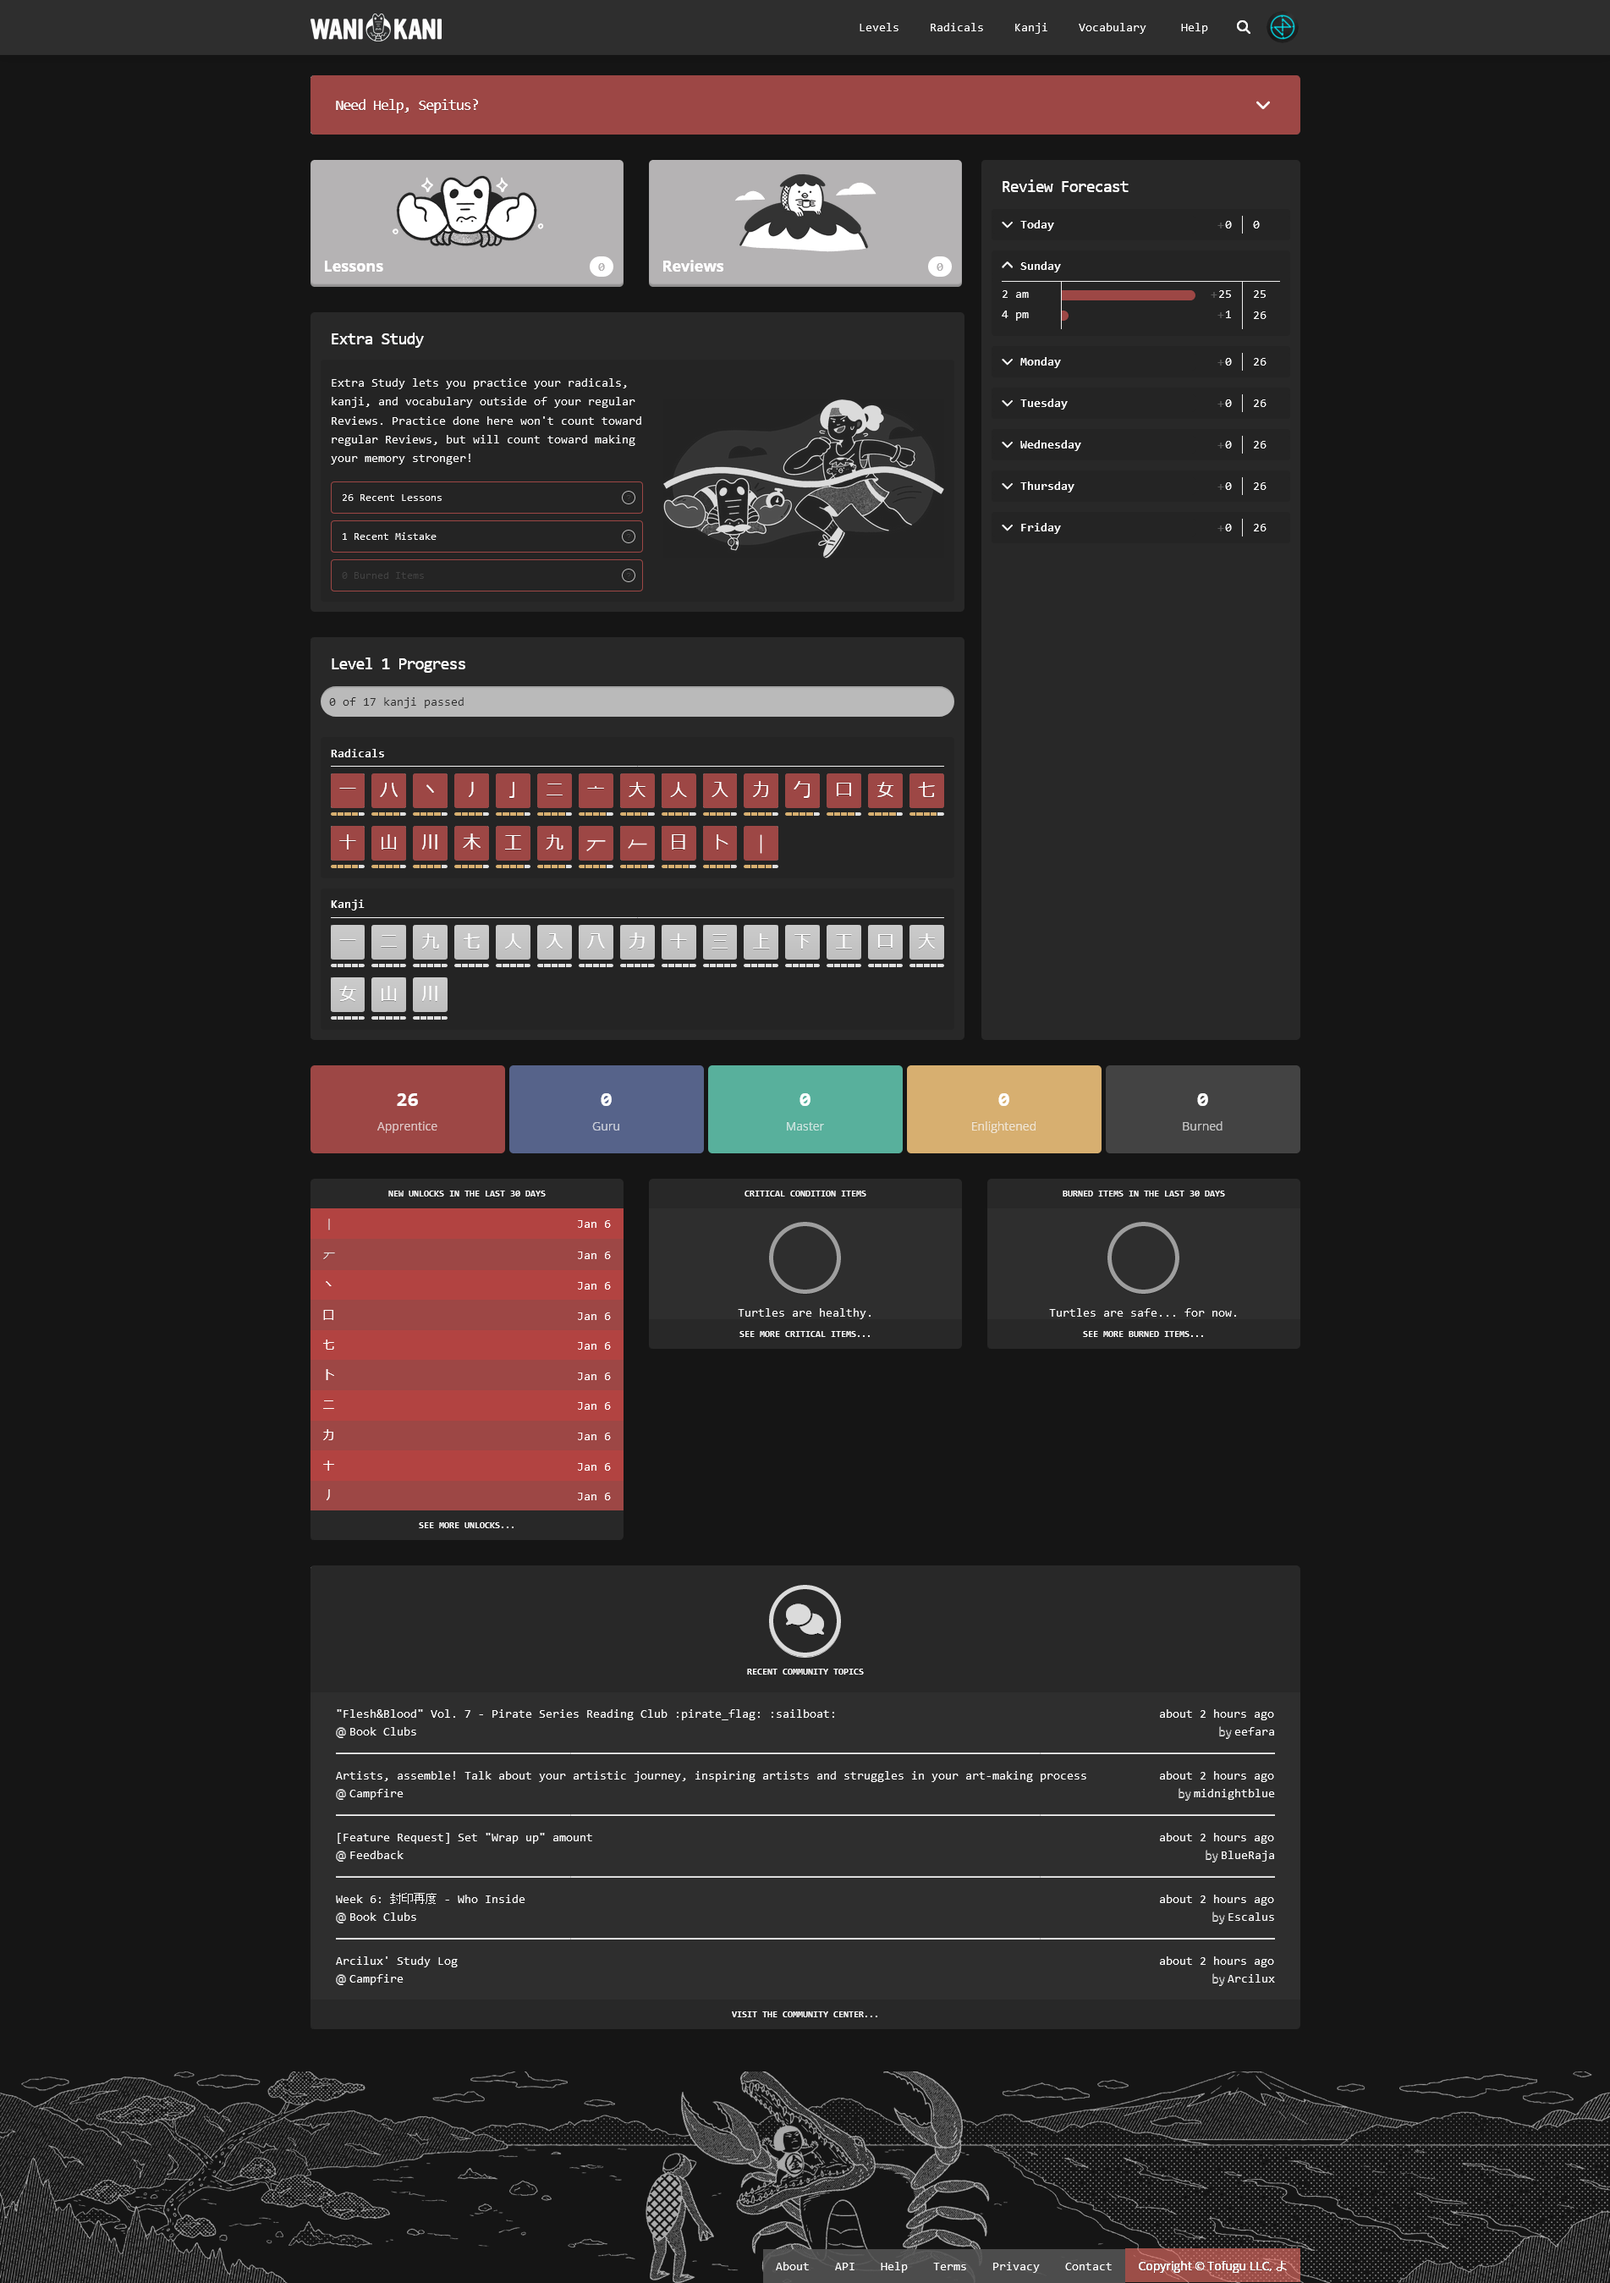
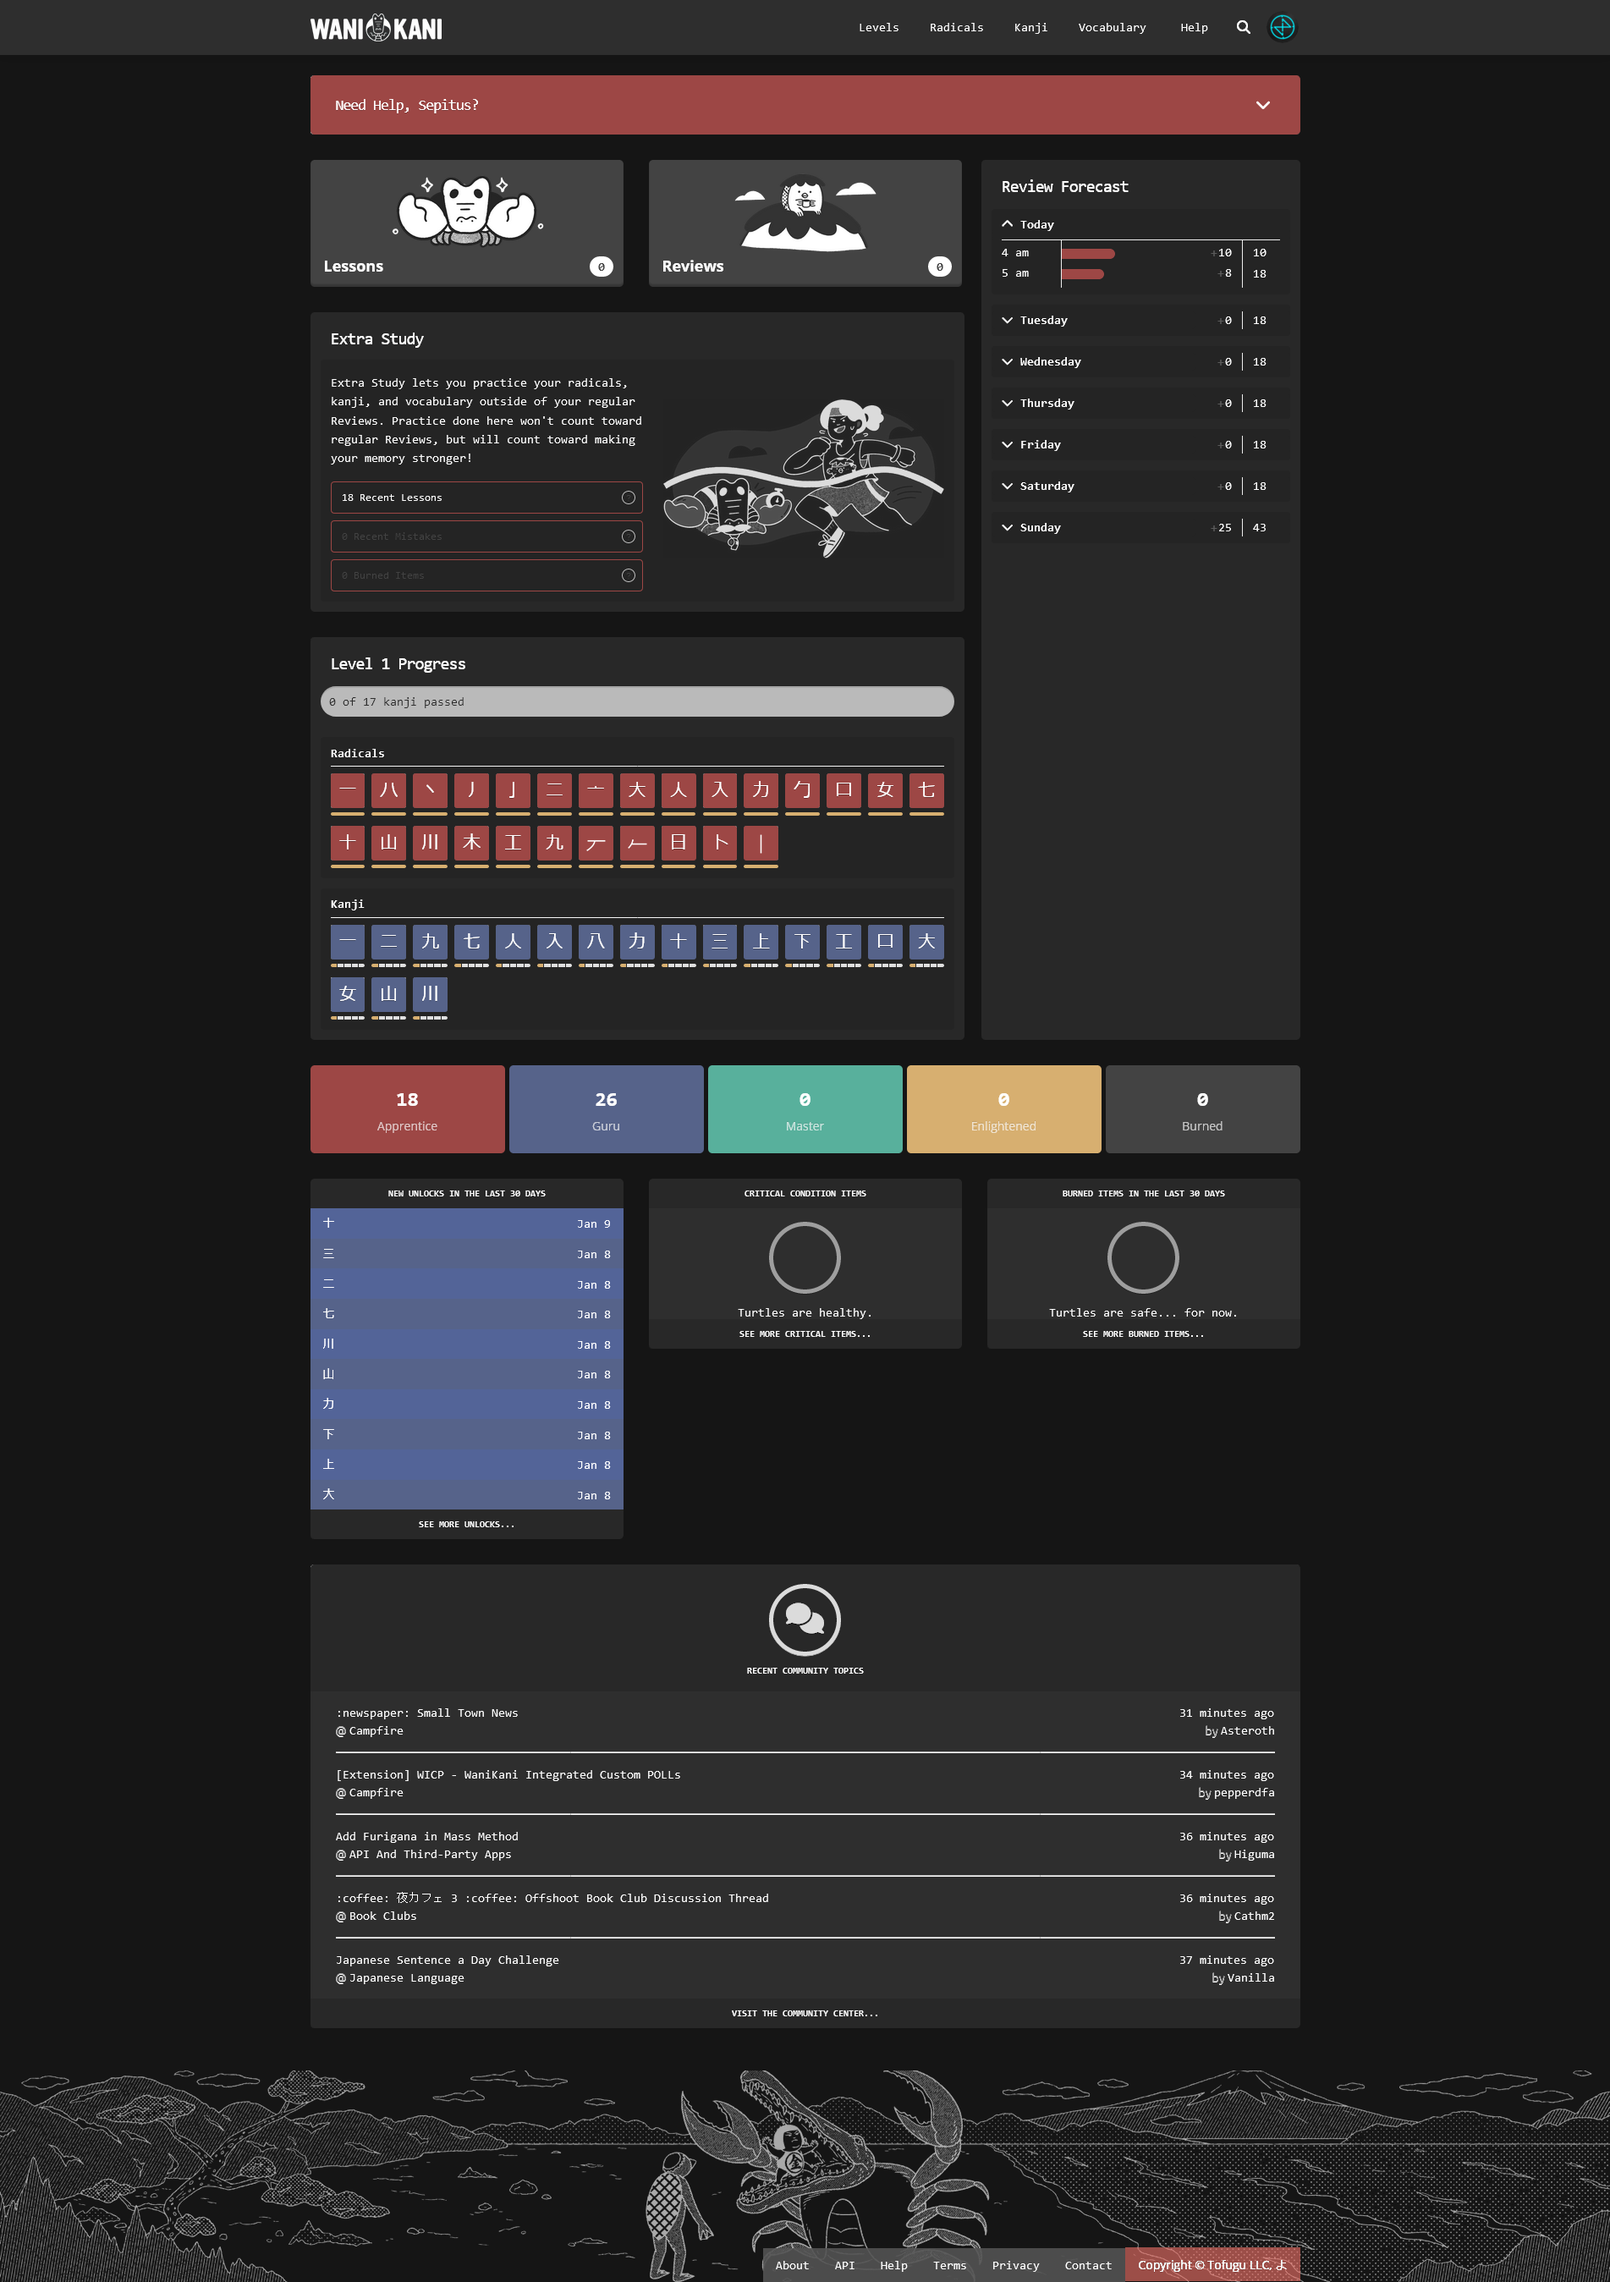
Changed dash buttons.... again Added theming for lessons Fixed highlight colors of "comunity topics" box

diff --git a/WKStygianRed.css b/WKStygianRed.css
@@ -116,12 +116,30 @@ footer ul li:last-child {
     border-color: #9d4745;
 }
 
-.lessons-and-reviews__reviews-button {
-    filter: hue-rotate(155deg) saturate(1.6) grayscale(50%);
+.lessons-and-reviews__reviews-button,
+.lessons-and-reviews__lessons-button {
+    background-color: #9d4745;
 }
 
-.lessons-and-reviews__lessons-button {
-    filter: hue-rotate(46deg) saturate(0.25) brightness(1.5);
+.lessons-and-reviews__reviews-button span,
+.lessons-and-reviews__lessons-button span,
+.lessons-and-reviews__lessons-button:hover,
+.lessons-and-reviews__lessons-button:active,
+.lessons-and-reviews__lessons-button:focus,
+.lessons-and-reviews__reviews-button:hover,
+.lessons-and-reviews__reviews-button:active,
+.lessons-and-reviews__reviews-button:focus  {
+    color: #9d4745;
+}
+
+.lessons-and-reviews__reviews-button--0,
+.lessons-and-reviews__lessons-button--0{
+    background-color: #434343;
+}
+
+.lessons-and-reviews__reviews-button--0 span,
+.lessons-and-reviews__lessons-button--0 span {
+    color: #434343;
 }
 
 .dashboard section.newbie, .dashboard section.dashboard-progress, .dashboard section.forecast,
@@ -179,7 +197,7 @@ section.srs-progress ul li:nth-child(4),section.srs-progress ul li:nth-child(5),
     border-radius: 0px 0px 5px 5px;
 }
 
-.text-blue-500:hover, .text-blue-500:active, .text-blue-500:focus {
+.text-blue-500:hover, .text-blue-500:active, .text-blue-500:focus, .forum-topics-list a:hover {
     color: #9d4745;
     --tw-ring-color: #9d4745;
 }
@@ -265,7 +283,7 @@ section.srs-progress ul li:nth-child(4), .bg-green {
 #reviews-summary #correct, #reviews-summary #correct .apprentice h3 span,  #reviews-summary #correct .apprentice > ul > li.radicals,
 #reviews-summary footer #last-session-date, #reviews-summary footer #copyright, #reviews-summary #correct .guru > ul > li,
 #reviews-summary #incorrect .guru > ul > li, #lessons-summary #radicals, #lessons-summary #kanji, #lessons-summary #vocabulary,
-#lessons-summary footer #last-session-date {
+#lessons-summary footer #last-session-date, #lessons-summary #kanji > div > ul > li.kanji {
     box-shadow: none;
     color: #fff;
     font-family: monospace;
@@ -286,12 +304,14 @@ section.srs-progress ul li:nth-child(4), .bg-green {
     font-size: 16px;
 }
 
-/*In review*/
-#loading, #additional-content-load {
+/*In reviews/lessons */
+#loading, #additional-content-load, #loading-screen {
     filter: grayscale(90%) invert(1) hue-rotate(180deg);
 }
 
-#progress-bar, #question #question-type.meaning, .user-synonyms ul li.user-synonyms-add-btn::before {
+#progress-bar, #question #question-type.meaning, .user-synonyms ul li.user-synonyms-add-btn::before,
+#lesson #supplement-nav, .bg-gray-400, #lessons-summary #radical > div, #lessons-summary #kanji > div,
+#lessons-summary #vocabulary > div{
     background: #282828;
 }
 
@@ -299,18 +319,64 @@ section.srs-progress ul li:nth-child(4), .bg-green {
     border-color: #282828;
 }
 
-#question #character.radical, .highlight-radical {
+#question #character.radical, .highlight-radical, .radical,
+header #main-info.radical,
+#lesson #supplement-info .radical,
+#lessons-summary #kanji > div > ul > li.radical {
     background: #9d4745;
 }
 
-#question #character.kanji, .highlight-kanji {
+#lessons #stats ul li span.radical {
+    color: #9d4745;
+}
+
+#question #character.kanji, .highlight-kanji, .kanji,
+header #main-info.kanji,
+#lesson #supplement-info .kanji,
+#lessons-summary #kanji > div > ul > li.kanji {
     background: #56638a;
 }
 
-#question #character.vocabulary, .highlight-vocabulary {
+#lessons #stats ul li span.kanji {
+    color: #56638a;
+}
+
+#question #character.vocabulary, .highlight-vocabulary, .vocabulary,
+header #main-info.vocabulary,
+#lesson #supplement-info .vocabulary, 
+#lessons-summary #kanji > div > ul > li.vocabulary {
     background: #58b09c;
 }
 
+#lessons #stats ul li span.vocabulary {
+    color: #58b09c;
+}
+
+header #main-info.radical #character, header #main-info.radical #meaning, #lesson #supplement-info .radical,
+header #main-info.kanji #character, header #main-info.kanji #meaning, #lesson #supplement-info .kanji,
+header #main-info.vocabulary #character, header #main-info.vocabulary #meaning, #lesson #supplement-info .vocabulary,
+#lesson #supplement-nav, #lesson #supplement-info,#lesson #supplement-info #supplement-kan-breakdown ul li div,
+#lesson #supplement-info h2, #lesson #supplement-info #supplement-kan-related-vocabulary ul li div, .text-gray-900,
+#quiz #question-type.reading {
+    text-shadow: none;
+    font-family: monospace;
+    box-shadow: none;
+    color: #fff;
+}
+
+#quiz #question-type.meaning {
+    text-shadow: none;
+    font-family: monospace;
+    box-shadow: none;
+}
+
+#lesson #supplement-nav ul li.active::before {
+    border-color: transparent transparent #2e2e2e transparent;
+}
+
+#lesson #supplement-info, #quiz #question-type.reading {
+    background: #2e2e2e;
+}
 #answer-form input[type="text"] {
     box-shadow: none;
     color: #fff;
@@ -320,8 +386,9 @@ section.srs-progress ul li:nth-child(4), .bg-green {
     background: #434343;
 }
 
-#answer-form button {
+#answer-form button, #lesson #supplement-info blockquote {
     background: #434343;
+    color: #fff;
 }
 
 #additional-content ul li span, #information{
@@ -337,12 +404,22 @@ section.srs-progress ul li:nth-child(4), .bg-green {
     color: #fff;
 }
 
+.highlight-reading, .highlight-reading > span {
+    background: #fff;
+    color: #282828;
+    text-shadow: none;
+}
+
 #information {
     margin: 0px 10px 10px 10px;
 }
 
 #additional-content ul li.active::before {
     border-color: transparent transparent #282828;
+}
+
+#lesson #supplement-nav ul li:hover:not(.active)::before {
+    border-color: transparent transparent #434343;
 }
 
 #kana-chart.legacy ul li span{
@@ -373,13 +450,15 @@ section.srs-progress ul li:nth-child(4), .bg-green {
 }
 
 .srs .srs-up {
-    background: #282828;
+    background: transparent;
     color: #58b09c;
+    text-shadow: 0px 0px 10px #151515;
 }
 
 .srs .srs-down {
-    background: #282828;
+    background: transparent;
     color: #9d4745;
+    text-shadow: 0px 0px 10px #151515;
 }
 
 /* overlay message */
